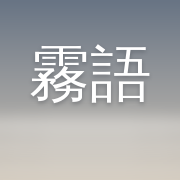
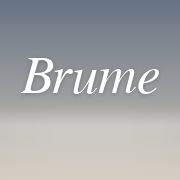
桌面圖示改成 Brume 字樣，圖示下面的名字也叫 Brume
Claude-Session: https://claude.ai/code/session_01XUzbE2DhWgLMwCmbTGK568

Changed region(s): [[0.1111, 0.25, 0.8889, 0.5833], [0.8611, 0.4722, 0.8889, 0.5]]

diff --git a/index.js b/index.js
@@ -18,7 +18,7 @@ import * as data from './data.js';
 import { createMusic, nowPlaying } from './music.js';
 
 const KEY = 'brume-phone:v1';
-const VERSION = '0.19.7';
+const VERSION = '0.19.8';
 
 // ---------- 除錯紀錄：手機在某些裝置上會不見，記下當時的畫面數字，設定裡可以複製給格看 ----------
 const DBG_KEY = 'brume-phone:dbg';
@@ -208,7 +208,7 @@ function build() {
       <button data-act="photos-reset">清掉小工具照片</button>
       <button data-act="homeicon">放到手機桌面</button>
       <button data-act="appicon">換桌面圖示的照片</button>
-      <p class="bp-sheet-note">桌面多一個「霧語」圖示，點了直接打開上次那個角色的手機，不用先開酒館、選角色。圖示可以換成妳喜歡的照片（換好再按一次「放到手機桌面」；已經放過的要先把舊的刪掉）。</p>
+      <p class="bp-sheet-note">桌面多一個「Brume」圖示，點了直接打開上次那個角色的手機，不用先開酒館、選角色。圖示可以換成妳喜歡的照片（換好再按一次「放到手機桌面」；已經放過的要先把舊的刪掉）。</p>
       <button data-act="cardoff" class="bp-danger">這張卡不用小手機</button>
       <p class="bp-sheet-note">古風、奇幻這類沒有手機的故事用：手機按鈕收起來、劇情不接手機、他也不會主動傳。要再打開，從輸入框左邊的魔杖選單點霧語。</p>
       <button data-act="dbg">複製除錯紀錄（給格看）</button>

diff --git a/app.html b/app.html
@@ -8,7 +8,7 @@
 <link rel="apple-touch-icon" href="icon-180.png">
 <meta name="apple-mobile-web-app-capable" content="yes">
 <meta name="mobile-web-app-capable" content="yes">
-<meta name="apple-mobile-web-app-title" content="霧語">
+<meta name="apple-mobile-web-app-title" content="Brume">
 <meta name="apple-mobile-web-app-status-bar-style" content="black">
 <meta name="theme-color" content="#000000">
 <style>
@@ -31,12 +31,12 @@
   <ol id="ios" class="hide">
     <li>按 Safari 下面的<b>分享</b>按鈕（方框加箭頭）</li>
     <li>往下滑，按<b>「加入主畫面」</b></li>
-    <li>名字會是「霧語」，按<b>新增</b></li>
+    <li>名字會是「Brume」，按<b>新增</b></li>
   </ol>
   <ol id="android" class="hide">
     <li>按 Chrome 右上角的<b>⋮</b></li>
     <li>按<b>「加到主畫面」</b>或<b>「安裝應用程式」</b></li>
-    <li>名字會是「霧語」，按<b>新增</b></li>
+    <li>名字會是「Brume」，按<b>新增</b></li>
   </ol>
   <p id="other" class="hide">用手機的瀏覽器打開這一頁，照上面的步驟加到桌面。</p>
   <p style="font-size:13px;opacity:.85">第一次從桌面打開，酒館有密碼的話要再登入一次；想收通知也要在霧語設定裡再按一次「開啟通知」。</p>

diff --git a/app-launch.js b/app-launch.js
@@ -18,7 +18,7 @@
     document.querySelector('link[rel="apple-touch-icon"]').href = d180;
     document.querySelector('main img').src = d180;
     var manifest = {
-      name: '霧語', short_name: '霧語', start_url: location.origin + '/?bp-app=1', scope: location.origin + '/',
+      name: 'Brume', short_name: 'Brume', start_url: location.origin + '/?bp-app=1', scope: location.origin + '/',
       display: 'standalone', background_color: '#68747f', theme_color: '#000000',
       icons: [{ src: d192, sizes: '192x192', type: 'image/png' }, { src: d512, sizes: '512x512', type: 'image/png' }],
     };
